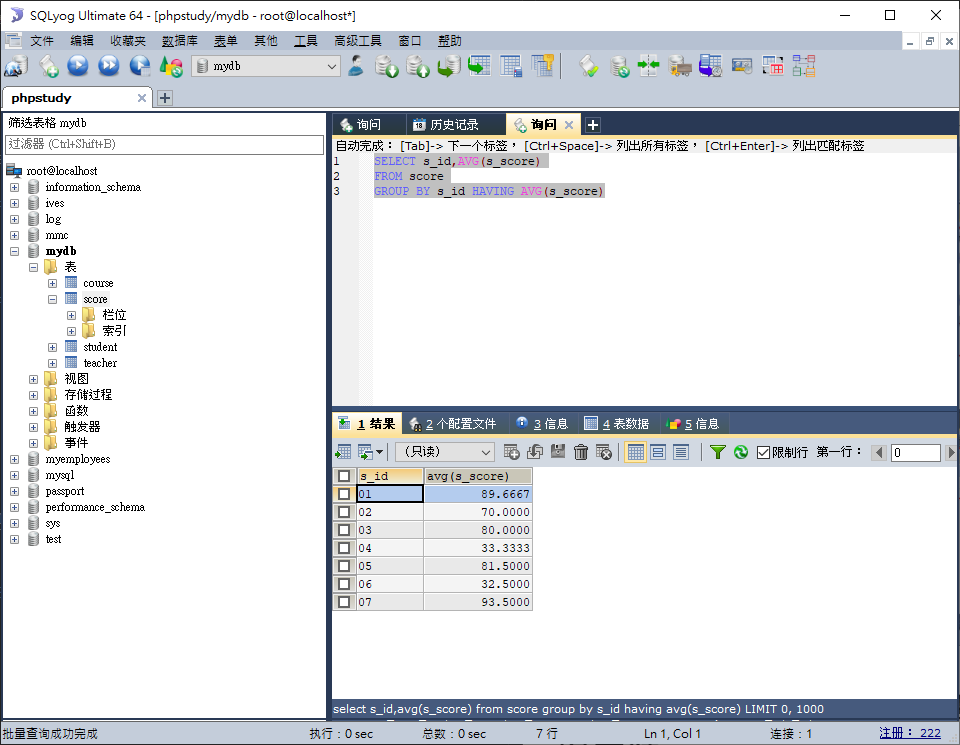
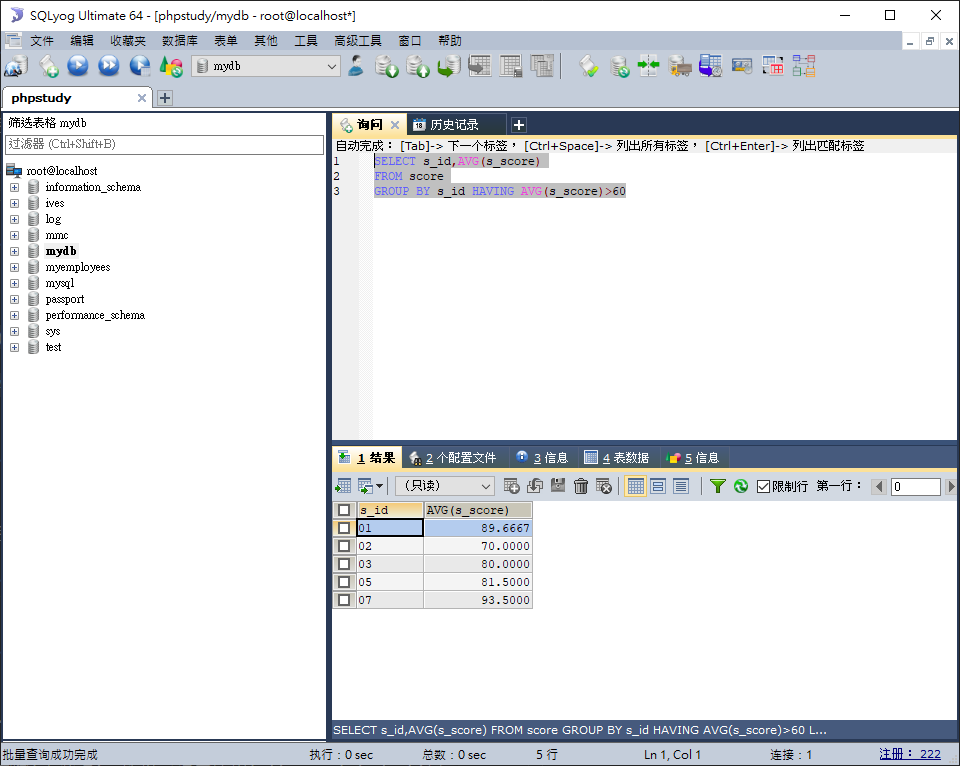
update

diff --git a/README.md b/README.md
@@ -127,7 +127,7 @@ WHERE a.s_score>b.s_score
 ```sql
 SELECT s_id,AVG(s_score)
 FROM score
-GROUP BY s_id HAVING AVG(s_score)
+GROUP BY s_id HAVING AVG(s_score)>60
 ```
 
 ## 執行結果
